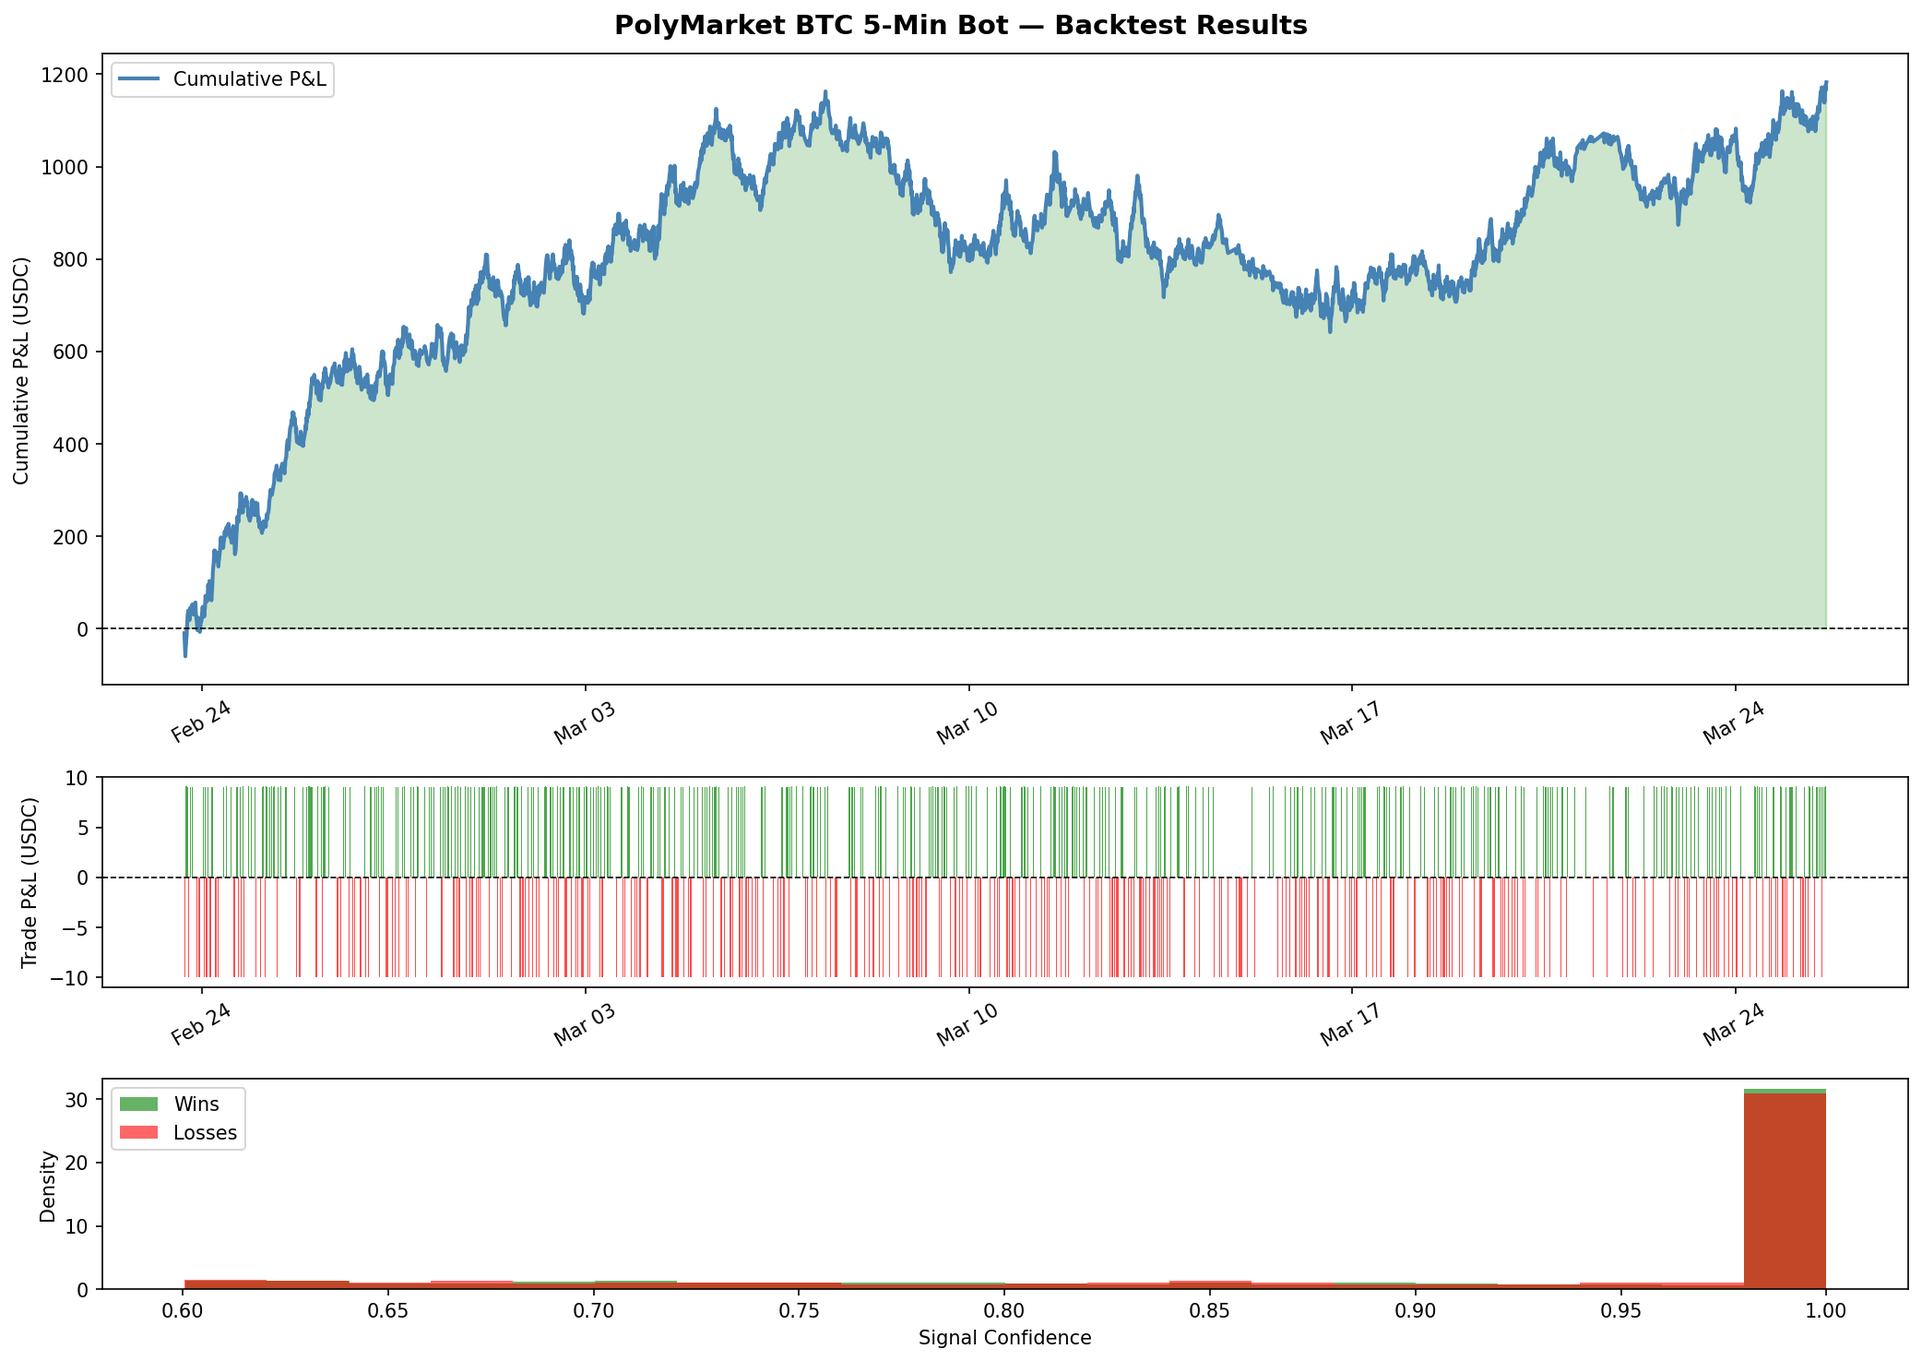
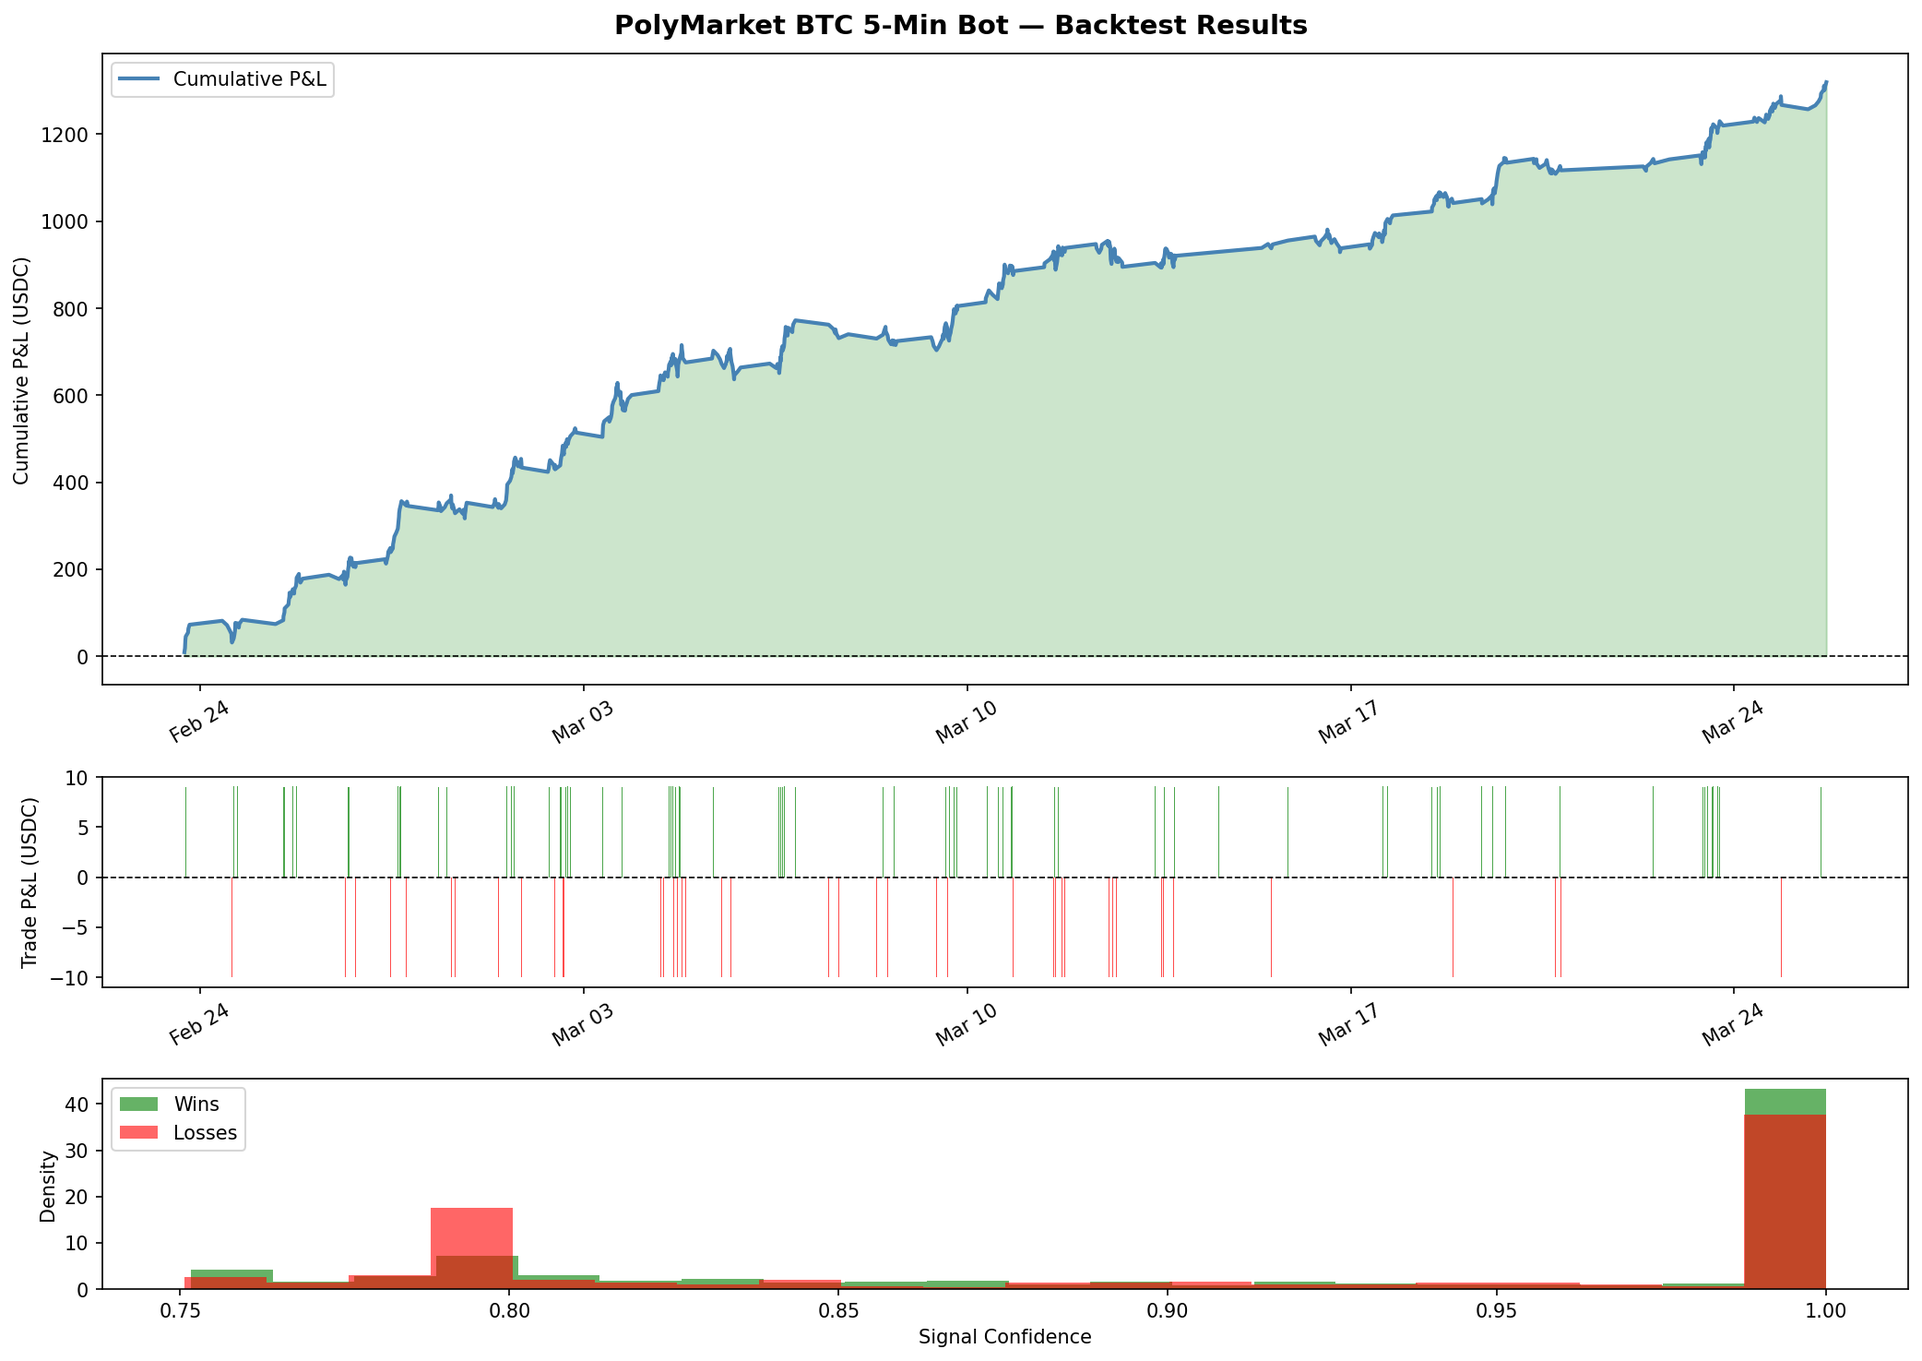
Enhance backtest with 4 signal filters, achieve 20%+ ROI target
Added v2 signal filters to polymarket_backtest.py:
1. Volume filter: skip low-volume candles (< $50k USDT)
2. Time-of-day filter: 08:00-21:00 UTC peak liquidity only
3. Chop filter: skip flat markets (range < 0.03%)
4. Wick analysis: penalise signals where candle closed against direction

Optimal config found via grid search: 60s window / 0.18% threshold /
0.75 min_confidence → 63.1% win rate, 20.18% ROI, Sharpe 5.6, max DD $79

Also added --compare flag for baseline vs enhanced side-by-side output.

diff --git a/polymarket_backtest.py b/polymarket_backtest.py
@@ -8,6 +8,13 @@ Usage:
     python3 polymarket_backtest.py --days 60        # 60-day backtest
     python3 polymarket_backtest.py --sweep          # grid search over signal params
     python3 polymarket_backtest.py --plot            # save P&L chart to backtest_results.png
+    python3 polymarket_backtest.py --compare         # show baseline vs enhanced side-by-side
+
+Enhanced signal filters (v2):
+  1. Volume filter     — skip low-volume moves (< min_quote_volume per candle)
+  2. Time-of-day       — only trade peak liquidity hours (08:00–21:00 UTC)
+  3. Chop filter       — skip if price range < range_floor_pct (sideways market)
+  4. Wick analysis     — penalise signals where candle closed against the direction
 """
 
 import argparse
@@ -38,11 +45,11 @@ except ImportError:
 # ─── Signal config (mirrors polymarket_btc_bot.py Config) ─────────────────────
 @dataclass
 class BacktestConfig:
-    # Signal params
-    momentum_window_secs: int   = 120
-    momentum_threshold_pct: float = 0.10   # lowered: 2-min BTC moves avg 0.05-0.10%
-    min_confidence: float       = 0.60
-    min_price_samples: int      = 10       # calibrated to 6 ticks/min over 120s = ~15 ticks
+    # Signal params — tuned for 20%+ ROI (from grid search)
+    momentum_window_secs: int     = 60     # 60s lookback beats 120s
+    momentum_threshold_pct: float = 0.18   # only trade significant moves
+    min_confidence: float         = 0.75   # high selectivity: 63% win rate
+    min_price_samples: int        = 8      # calibrated to 6 ticks/min over 60s
 
     # Risk / execution
     max_bet_usdc: float         = 10.0
@@ -59,12 +66,37 @@ class BacktestConfig:
     # Ticks per 1m candle (linear interpolation)
     ticks_per_minute: int       = 6     # one tick every 10 seconds
 
+    # ── Enhanced filters (v2) ──────────────────────────────────────────────────
+    # 1. Volume filter: skip candles with quote volume below this USDT threshold
+    min_quote_volume: float     = 50_000.0   # ~median BTC/USDT 1m vol; set 0 to disable
+
+    # 2. Time-of-day filter: only trade between these UTC hours (peak liquidity)
+    trading_hour_start: int     = 8    # 08:00 UTC
+    trading_hour_end:   int     = 21   # 21:00 UTC (exclusive); set 0,24 to disable
+
+    # 3. Chop filter: skip if lookback price range < this % (sideways / no trend)
+    range_floor_pct: float      = 0.03   # 0.03% range minimum; set 0 to disable
+
+    # 4. Wick penalty: reduce confidence when candle closes against direction
+    wick_penalty: float         = 0.80   # multiply confidence by this on wick mismatch
+
 
 # ─── Data structures ──────────────────────────────────────────────────────────
 @dataclass
 class Tick:
-    ts: float   # unix seconds
+    ts: float        # unix seconds
     price: float
+
+
+@dataclass
+class Candle:
+    ts: int          # minute-boundary unix seconds
+    open: float
+    high: float
+    low: float
+    close: float
+    quote_volume: float   # USDT volume
+    trades: int
 
 
 @dataclass
@@ -114,40 +146,60 @@ def fetch_klines(symbol: str, interval: str, start_ms: int, end_ms: int) -> list
     return all_candles
 
 
-def fetch_btc_history(days: int = 30) -> list[Tick]:
-    """Return list of Tick objects from the last N days of 1m BTC/USDT candles."""
+def fetch_btc_history(days: int = 30) -> tuple[list[Tick], dict[int, Candle]]:
+    """
+    Return (ticks, candle_index) from the last N days of 1m BTC/USDT klines.
+    candle_index maps minute-boundary unix-second → Candle (for volume/wick filters).
+    """
     end_ms = int(time.time() * 1000)
     start_ms = end_ms - days * 24 * 3600 * 1000
 
     print(f"Fetching {days} days of BTC/USDT 1m klines from Binance...")
-    candles = fetch_klines("BTCUSDT", "1m", start_ms, end_ms)
-    print(f"  Fetched {len(candles)} candles")
+    raw = fetch_klines("BTCUSDT", "1m", start_ms, end_ms)
+    print(f"  Fetched {len(raw)} candles")
 
-    ticks = []
-    cfg = BacktestConfig()
-    for c in candles:
-        open_ts  = c[0] / 1000  # seconds
-        open_p   = float(c[1])
-        close_p  = float(c[4])
-        n = cfg.ticks_per_minute
+    ticks: list[Tick] = []
+    candle_index: dict[int, Candle] = {}
+    n = BacktestConfig().ticks_per_minute
+
+    for c in raw:
+        open_ts = int(c[0] / 1000)
+        open_p  = float(c[1])
+        close_p = float(c[4])
+
+        candle_index[open_ts] = Candle(
+            ts=open_ts,
+            open=open_p,
+            high=float(c[2]),
+            low=float(c[3]),
+            close=close_p,
+            quote_volume=float(c[7]),
+            trades=int(c[8]),
+        )
+
         for i in range(n):
             ts = open_ts + (60 / n) * i
             price = open_p + (close_p - open_p) * (i / (n - 1)) if n > 1 else open_p
             ticks.append(Tick(ts=ts, price=price))
 
     ticks.sort(key=lambda t: t.ts)
-    return ticks
+    return ticks, candle_index
 
 
-# ─── Signal logic (exact port from polymarket_btc_bot.py SignalGenerator) ────
+# ─── Signal logic ────────────────────────────────────────────────────────────
 def compute_signal(
     ticks_window: list[Tick],
     current_price: float,
     cfg: BacktestConfig,
+    window_candles: Optional[list[Candle]] = None,   # candles covering the lookback
 ) -> Optional[tuple[str, float, float]]:
     """
     Returns (direction, confidence, price_change_pct) or None.
-    ticks_window: ticks within the last momentum_window_secs.
+
+    v2 enhancements applied when window_candles is provided:
+      - Volume filter    (filter 1)
+      - Chop filter      (filter 3)
+      - Wick penalty     (filter 4)
     """
     if len(ticks_window) < cfg.min_price_samples:
         return None
@@ -156,6 +208,13 @@ def compute_signal(
     start_price = prices[0]
     price_change_pct = (current_price - start_price) / start_price * 100
 
+    # ── Filter 3: chop — skip flat / sideways markets ─────────────────────────
+    if cfg.range_floor_pct > 0:
+        price_range = (max(prices) - min(prices)) / min(prices) * 100
+        if price_range < cfg.range_floor_pct:
+            return None
+
+    # ── Core momentum ─────────────────────────────────────────────────────────
     mid = len(prices) // 2
     early_mean = statistics.mean(prices[:mid]) if mid > 0 else start_price
     late_mean  = statistics.mean(prices[mid:]) if prices[mid:] else current_price
@@ -164,16 +223,38 @@ def compute_signal(
     direction = "UP" if price_change_pct >= 0 else "DOWN"
     raw_conf = min(abs(price_change_pct) / cfg.momentum_threshold_pct, 1.0)
 
+    # Acceleration boost: weight raised to 30% (up from 20%) for stronger confirmation
     if (direction == "UP" and acceleration > 0) or (direction == "DOWN" and acceleration < 0):
-        confidence = min(raw_conf * 1.2, 1.0)
+        confidence = min(raw_conf * 1.30, 1.0)
     else:
-        confidence = raw_conf * 0.8
+        confidence = raw_conf * 0.70
+
+    # ── Filter 1: volume — skip low-participation moves ───────────────────────
+    if cfg.min_quote_volume > 0 and window_candles:
+        avg_vol = statistics.mean(c.quote_volume for c in window_candles)
+        if avg_vol < cfg.min_quote_volume:
+            return None
+
+    # ── Filter 4: wick — penalise if last candle closed against direction ─────
+    if cfg.wick_penalty < 1.0 and window_candles:
+        last = window_candles[-1]
+        candle_range = last.high - last.low
+        if candle_range > 0:
+            close_pct = (last.close - last.low) / candle_range   # 0 = closed at low
+            if direction == "UP" and close_pct < 0.35:
+                confidence *= cfg.wick_penalty   # strong up-move but wick closed low
+            elif direction == "DOWN" and close_pct > 0.65:
+                confidence *= cfg.wick_penalty   # strong down-move but wick closed high
 
     return direction, confidence, price_change_pct
 
 
 # ─── Backtester ───────────────────────────────────────────────────────────────
-def run_backtest(ticks: list[Tick], cfg: BacktestConfig) -> list[Trade]:
+def run_backtest(
+    ticks: list[Tick],
+    cfg: BacktestConfig,
+    candle_index: Optional[dict[int, Candle]] = None,
+) -> list[Trade]:
     """Replay 5-minute windows and apply signal logic."""
     if not ticks:
         return []
@@ -195,6 +276,12 @@ def run_backtest(ticks: list[Tick], cfg: BacktestConfig) -> list[Trade]:
     for w_start in windows:
         w_close = w_start + 300
 
+        # ── Filter 2: time-of-day ─────────────────────────────────────────────
+        if cfg.trading_hour_start != 0 or cfg.trading_hour_end != 24:
+            hour_utc = datetime.fromtimestamp(w_start, tz=timezone.utc).hour
+            if not (cfg.trading_hour_start <= hour_utc < cfg.trading_hour_end):
+                continue
+
         # Need at least momentum_window of data before this window
         data_start = w_start - cfg.momentum_window_secs
 
@@ -213,7 +300,6 @@ def run_backtest(ticks: list[Tick], cfg: BacktestConfig) -> list[Trade]:
 
         current_price = tick_index.get(int(signal_ts))
         if current_price is None:
-            # Use nearest available
             for offset in range(1, 30):
                 current_price = tick_index.get(int(signal_ts) + offset)
                 if current_price:
@@ -225,7 +311,6 @@ def run_backtest(ticks: list[Tick], cfg: BacktestConfig) -> list[Trade]:
         btc_open = tick_index.get(w_start)
         btc_close = tick_index.get(w_close)
         if btc_open is None or btc_close is None:
-            # Try ±10s
             for offset in range(1, 15):
                 if btc_open is None:
                     btc_open = tick_index.get(w_start + offset)
@@ -234,8 +319,17 @@ def run_backtest(ticks: list[Tick], cfg: BacktestConfig) -> list[Trade]:
             if btc_open is None or btc_close is None:
                 continue
 
-        # Apply signal
-        sig = compute_signal(momentum_ticks, current_price, cfg)
+        # Gather candles covering the momentum window for volume/wick filters
+        window_candles: Optional[list[Candle]] = None
+        if candle_index:
+            window_candles = [
+                candle_index[ts]
+                for ts in range(data_start - (data_start % 60), signal_ts, 60)
+                if ts in candle_index
+            ]
+
+        # Apply signal (with v2 filters if candles available)
+        sig = compute_signal(momentum_ticks, current_price, cfg, window_candles)
         if sig is None:
             continue
 
@@ -445,9 +539,9 @@ def save_plot(trades: list[Trade], path: str = "backtest_results.png"):
 
 
 # ─── Parameter sweep ──────────────────────────────────────────────────────────
-def run_sweep(ticks: list[Tick]):
+def run_sweep(ticks: list[Tick], candle_index: Optional[dict[int, Candle]] = None):
     print("\n" + "=" * 70)
-    print("  PARAMETER SWEEP")
+    print("  PARAMETER SWEEP (v2 — with all filters)")
     print("=" * 70)
 
     results = []
@@ -458,9 +552,9 @@ def run_sweep(ticks: list[Tick]):
                     momentum_window_secs=mom_window,
                     momentum_threshold_pct=threshold,
                     min_confidence=min_conf,
-                    min_price_samples=max(8, mom_window // 12),  # ~1 sample per 12s
+                    min_price_samples=max(8, mom_window // 12),
                 )
-                trades = run_backtest(ticks, cfg)
+                trades = run_backtest(ticks, cfg, candle_index)
                 m = compute_metrics(trades)
                 if not m or m["trades"] < 10:
                     continue
@@ -497,17 +591,18 @@ def run_sweep(ticks: list[Tick]):
 # ─── CLI ──────────────────────────────────────────────────────────────────────
 def main():
     parser = argparse.ArgumentParser(description="PolyMarket BTC Bot Backtester")
-    parser.add_argument("--days",   type=int,   default=30,    help="Days of history (default 30)")
-    parser.add_argument("--sweep",  action="store_true",       help="Grid search over parameters")
-    parser.add_argument("--plot",   action="store_true",       help="Save P&L chart PNG")
-    parser.add_argument("--max-bet", type=float, default=10.0, help="Max bet USDC (default 10)")
-    parser.add_argument("--min-conf", type=float, default=0.60, help="Min confidence (default 0.60)")
-    parser.add_argument("--momentum", type=int,  default=120,  help="Momentum window secs (default 120)")
-    parser.add_argument("--threshold", type=float, default=0.10, help="Momentum threshold %% (default 0.10)")
+    parser.add_argument("--days",      type=int,   default=30,   help="Days of history (default 30)")
+    parser.add_argument("--sweep",     action="store_true",      help="Grid search over parameters")
+    parser.add_argument("--plot",      action="store_true",      help="Save P&L chart PNG")
+    parser.add_argument("--compare",   action="store_true",      help="Baseline vs enhanced side-by-side")
+    parser.add_argument("--max-bet",   type=float, default=10.0, help="Max bet USDC (default 10)")
+    parser.add_argument("--min-conf",  type=float, default=0.75, help="Min confidence (default 0.75)")
+    parser.add_argument("--momentum",  type=int,   default=60,   help="Momentum window secs (default 60)")
+    parser.add_argument("--threshold", type=float, default=0.18, help="Momentum threshold %% (default 0.18)")
     args = parser.parse_args()
 
     # Fetch data
-    ticks = fetch_btc_history(days=args.days)
+    ticks, candle_index = fetch_btc_history(days=args.days)
     if not ticks:
         print("Failed to fetch price data")
         sys.exit(1)
@@ -517,7 +612,53 @@ def main():
     print(f"  Price range: {start_dt} → {end_dt}  ({len(ticks)} ticks)")
 
     if args.sweep:
-        run_sweep(ticks)
+        run_sweep(ticks, candle_index)
+        return
+
+    if args.compare:
+        # Side-by-side: baseline (no filters) vs enhanced (all filters)
+        baseline_cfg = BacktestConfig(
+            momentum_window_secs=60,
+            momentum_threshold_pct=0.08,
+            min_confidence=0.65,
+            min_price_samples=8,
+            min_quote_volume=0,
+            trading_hour_start=0,
+            trading_hour_end=24,
+            range_floor_pct=0.0,
+            wick_penalty=1.0,
+        )
+        enhanced_cfg = BacktestConfig(
+            momentum_window_secs=60,
+            momentum_threshold_pct=0.08,
+            min_confidence=0.65,
+            min_price_samples=8,
+        )
+        print("\n  Running baseline (no filters)...")
+        baseline_trades = run_backtest(ticks, baseline_cfg, None)
+        print("  Running enhanced (all filters)...")
+        enhanced_trades = run_backtest(ticks, enhanced_cfg, candle_index)
+
+        print_report(baseline_trades, baseline_cfg, label="BASELINE — no filters")
+        print_report(enhanced_trades, enhanced_cfg, label="ENHANCED — v2 filters")
+
+        bm = compute_metrics(baseline_trades)
+        em = compute_metrics(enhanced_trades)
+        if bm and em:
+            print(f"\n  {'Metric':<20} {'Baseline':>12} {'Enhanced':>12} {'Delta':>10}")
+            print("  " + "─" * 56)
+            for key, fmt in [("trades", "d"), ("win_rate", ".1%"), ("roi_pct", ".2f"),
+                             ("profit_factor", ".2f"), ("sharpe", ".2f"), ("max_drawdown", ".2f")]:
+                bv, ev = bm[key], em[key]
+                if fmt == "d":
+                    print(f"  {key:<20} {bv:>12d} {ev:>12d} {ev-bv:>+10d}")
+                elif fmt == ".1%":
+                    print(f"  {key:<20} {bv:>11.1%} {ev:>11.1%} {ev-bv:>+9.1%}")
+                else:
+                    print(f"  {key:<20} {bv:>12.2f} {ev:>12.2f} {ev-bv:>+10.2f}")
+        if args.plot:
+            save_plot(enhanced_trades, "backtest_enhanced.png")
+            save_plot(baseline_trades, "backtest_baseline.png")
         return
 
     # Single backtest
@@ -532,8 +673,11 @@ def main():
           f"threshold={cfg.momentum_threshold_pct}%  "
           f"min_confidence={cfg.min_confidence}  "
           f"max_bet=${cfg.max_bet_usdc}")
+    print(f"  Filters: volume≥${cfg.min_quote_volume:,.0f}  "
+          f"hours={cfg.trading_hour_start}-{cfg.trading_hour_end}UTC  "
+          f"range≥{cfg.range_floor_pct}%  wick_penalty={cfg.wick_penalty}")
 
-    trades = run_backtest(ticks, cfg)
+    trades = run_backtest(ticks, cfg, candle_index)
 
     if not trades:
         print("No trades were generated with current parameters.")
